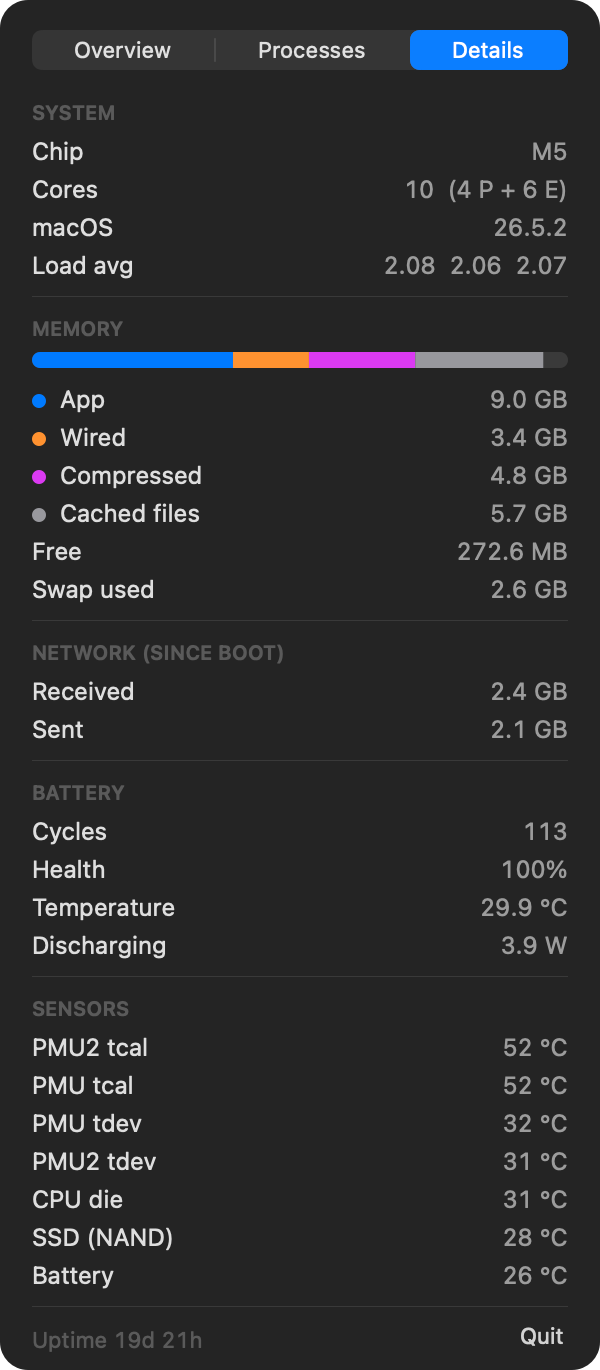
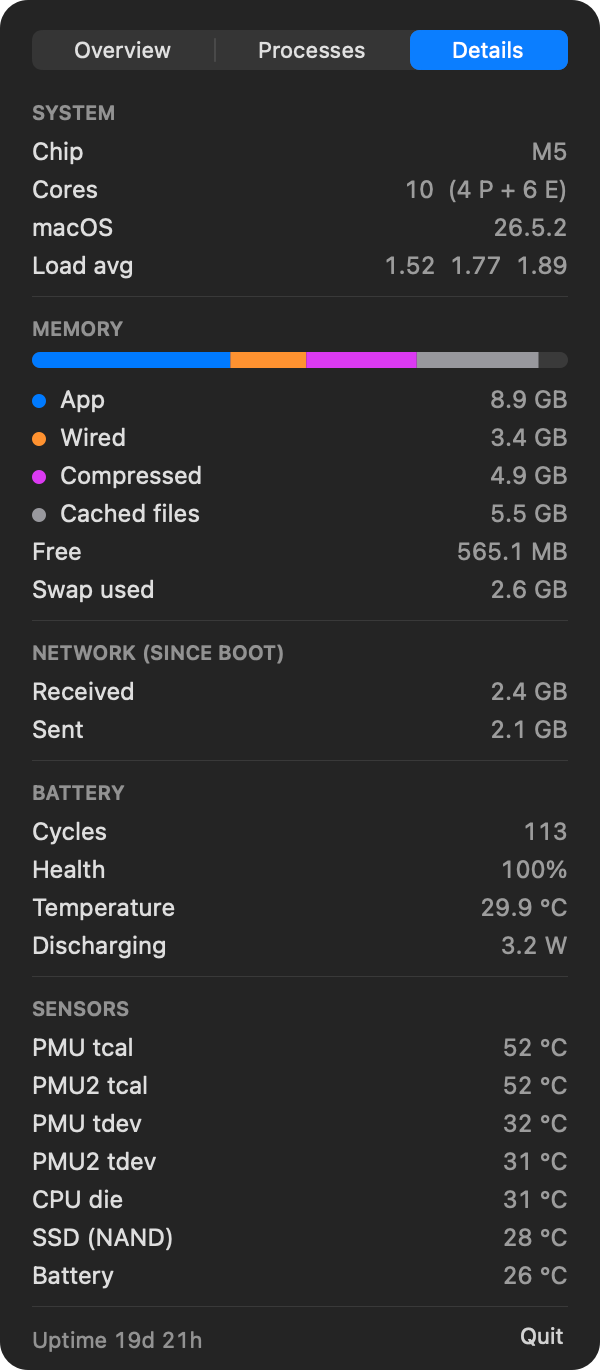
Throttle heavy sampling to every 2s, improve caption contrast, refresh screenshots

diff --git a/Sources/main.swift b/Sources/main.swift
@@ -161,7 +161,7 @@ final class Sampler {
     var temps: [(String, Double)] = []
     var batt: [(String, String)] = []
     var wantDetails = false
-    var procMode = 1          // 0 — не нужны (Details), 1 — раз в 2 тика (Overview), 2 — каждый тик (Processes)
+    var procMode = 1          // 0 — не нужны (Details), 1 — Overview (топ-3), 2 — Processes (полный список)
     var tickN = 0
     let chip = sysStr("machdep.cpu.brand_string")
     var prevProc: [Int32: UInt64] = [:]
@@ -182,9 +182,11 @@ final class Sampler {
         sampleBattery()
         sampleNet()
         tickN += 1
-        if procMode == 2 || (procMode == 1 && tickN % 2 == 0) || (procMode == 1 && top.isEmpty) { sampleProcs() }
+        // тяжёлые вещи — раз в 2 тика; пока нет первой пары замеров (нужна для дельт) — каждый тик
+        let needFirst = procMode == 2 ? procsCPU.isEmpty : top.isEmpty
+        if procMode != 0 && (tickN % 2 == 0 || needFirst) { sampleProcs() }
         var l = [0.0, 0.0, 0.0]; getloadavg(&l, 3); load1 = l[0]; load5 = l[1]; load15 = l[2]
-        if wantDetails { temps = thermal.allTemps(); sampleBatteryDetails() }
+        if wantDetails && (tickN % 2 == 0 || temps.isEmpty) { temps = thermal.allTemps(); sampleBatteryDetails() }
         let now = Date.timeIntervalSinceReferenceDate
         if now - lastDisk > 30 { lastDisk = now; sampleDisk() }
     }
@@ -398,6 +400,7 @@ final class PanelView: NSView {
     let W: CGFloat = 300, P: CGFloat = 16
     var CW: CGFloat { W - 2 * P }
     let quit = NSButton()
+    let dim = NSColor.labelColor.withAlphaComponent(0.5)   // читаемее tertiaryLabel на полупрозрачном фоне
     let seg = NSSegmentedControl(labels: ["Overview", "Processes", "Details"], trackingMode: .selectOne,
                                  target: nil, action: nil)
     let sortSeg = NSSegmentedControl(labels: ["CPU", "Memory"], trackingMode: .selectOne, target: nil, action: nil)
@@ -469,7 +472,7 @@ final class PanelView: NSView {
         text(value, x: P + 100, y: y, w: CW - 100, font: fValue, color: .secondaryLabelColor, right: true)
         y += 21
         if let f = frac { bar(y: y, frac: f, color: color ?? tint(f)); y += 9 }
-        if let c = caption { text(c, x: P, y: y, w: CW, font: fCap, color: .tertiaryLabelColor); y += 16 }
+        if let c = caption { text(c, x: P, y: y, w: CW, font: fCap, color: dim); y += 16 }
         y += 8
     }
 
@@ -486,7 +489,7 @@ final class PanelView: NSView {
         divider(y); y += 8
         let up = Int(ProcessInfo.processInfo.systemUptime)
         let ut = up >= 86400 ? "\(up / 86400)d \(up % 86400 / 3600)h" : "\(up / 3600)h \(up % 3600 / 60)m"
-        text("Uptime \(ut)", x: P, y: y + 2, w: 160, font: fCap, color: .tertiaryLabelColor)
+        text("Uptime \(ut)", x: P, y: y + 2, w: 160, font: fCap, color: dim)
         if !draw { quit.setFrameOrigin(NSPoint(x: W - P - quit.frame.width, y: y)) }
         y += 24
         return y
@@ -542,7 +545,7 @@ final class PanelView: NSView {
             y += ch + 6
         }
         text(String(format: "User %.0f%%   System %.0f%%   Load %.2f", s.cpuUser * 100, s.cpuSys * 100, s.load1),
-             x: P, y: y, w: CW, font: fCap, color: .tertiaryLabelColor)
+             x: P, y: y, w: CW, font: fCap, color: dim)
         y += 20
         divider(y); y += 12
 
@@ -572,7 +575,7 @@ final class PanelView: NSView {
         if !s.top.isEmpty {
             divider(y - 2); y += 10
             text("TOP PROCESSES", x: P, y: y, w: CW, font: NSFont.systemFont(ofSize: 10, weight: .semibold),
-                 color: .tertiaryLabelColor)
+                 color: dim)
             y += 18
             for (name, pct) in s.top {
                 text(name, x: P, y: y, w: CW - 70, font: NSFont.systemFont(ofSize: 12))
@@ -595,12 +598,12 @@ final class PanelView: NSView {
         let byMem = sortSeg.selectedSegment == 1
         let list = byMem ? s.procsMem : s.procsCPU
         let hf = NSFont.systemFont(ofSize: 10, weight: .semibold)
-        text("APP", x: P, y: y, w: 100, font: hf, color: .tertiaryLabelColor)
-        text("CPU", x: P + CW - 140, y: y, w: 60, font: hf, color: byMem ? .tertiaryLabelColor : .secondaryLabelColor, right: true)
-        text("MEMORY", x: P + CW - 70, y: y, w: 70, font: hf, color: byMem ? .secondaryLabelColor : .tertiaryLabelColor, right: true)
+        text("APP", x: P, y: y, w: 100, font: hf, color: dim)
+        text("CPU", x: P + CW - 140, y: y, w: 60, font: hf, color: byMem ? dim : .secondaryLabelColor, right: true)
+        text("MEMORY", x: P + CW - 70, y: y, w: 70, font: hf, color: byMem ? .secondaryLabelColor : dim, right: true)
         y += 18
         if list.isEmpty {
-            text("Collecting…", x: P, y: y, w: CW, font: NSFont.systemFont(ofSize: 12), color: .tertiaryLabelColor)
+            text("Collecting…", x: P, y: y, w: CW, font: NSFont.systemFont(ofSize: 12), color: dim)
             y += 24
             return
         }
@@ -609,9 +612,9 @@ final class PanelView: NSView {
         for p in list {
             text(p.count > 1 ? "\(p.name)  ×\(p.count)" : p.name, x: P, y: y, w: CW - 150, font: f)
             text(String(format: "%.1f%%", p.cpu * 100), x: P + CW - 140, y: y, w: 60, font: mf,
-                 color: byMem ? .tertiaryLabelColor : .secondaryLabelColor, right: true)
+                 color: byMem ? dim : .secondaryLabelColor, right: true)
             text(fmtBytes(Double(p.mem)), x: P + CW - 70, y: y, w: 70, font: mf,
-                 color: byMem ? .secondaryLabelColor : .tertiaryLabelColor, right: true)
+                 color: byMem ? .secondaryLabelColor : dim, right: true)
             y += 19
             let v = byMem ? Double(p.mem) : p.cpu
             bar(y: y, frac: v / mx, color: byMem ? .systemPurple : .controlAccentColor, h: 3)
@@ -623,7 +626,7 @@ final class PanelView: NSView {
     // MARK: Details
 
     func section(_ y: inout CGFloat, _ t: String) {
-        text(t, x: P, y: y, w: CW, font: NSFont.systemFont(ofSize: 10, weight: .semibold), color: .tertiaryLabelColor)
+        text(t, x: P, y: y, w: CW, font: NSFont.systemFont(ofSize: 10, weight: .semibold), color: dim)
         y += 18
     }
 
@@ -803,6 +806,16 @@ t("batteryDetails") { bs.sampleBatteryDetails() }
 t("net") { bs.sampleNet() }
 usleep(500000)
 t("procs") { usleep(450000); bs.sampleProcs() }
+let bp = PanelView(bs)
+for tabIdx in 0..<3 {
+    bp.seg.selectedSegment = tabIdx; bp.changed()
+    t("open tick tab\(tabIdx) sample") { bs.sampleFull() }
+    t("open tick tab\(tabIdx) layout") { _ = bp.relayout() }
+    t("open tick tab\(tabIdx) draw") {
+        let rep = bp.bitmapImageRepForCachingDisplay(in: bp.bounds)!
+        bp.cacheDisplay(in: bp.bounds, to: rep)
+    }
+}
 exit(0)
 #endif
 
